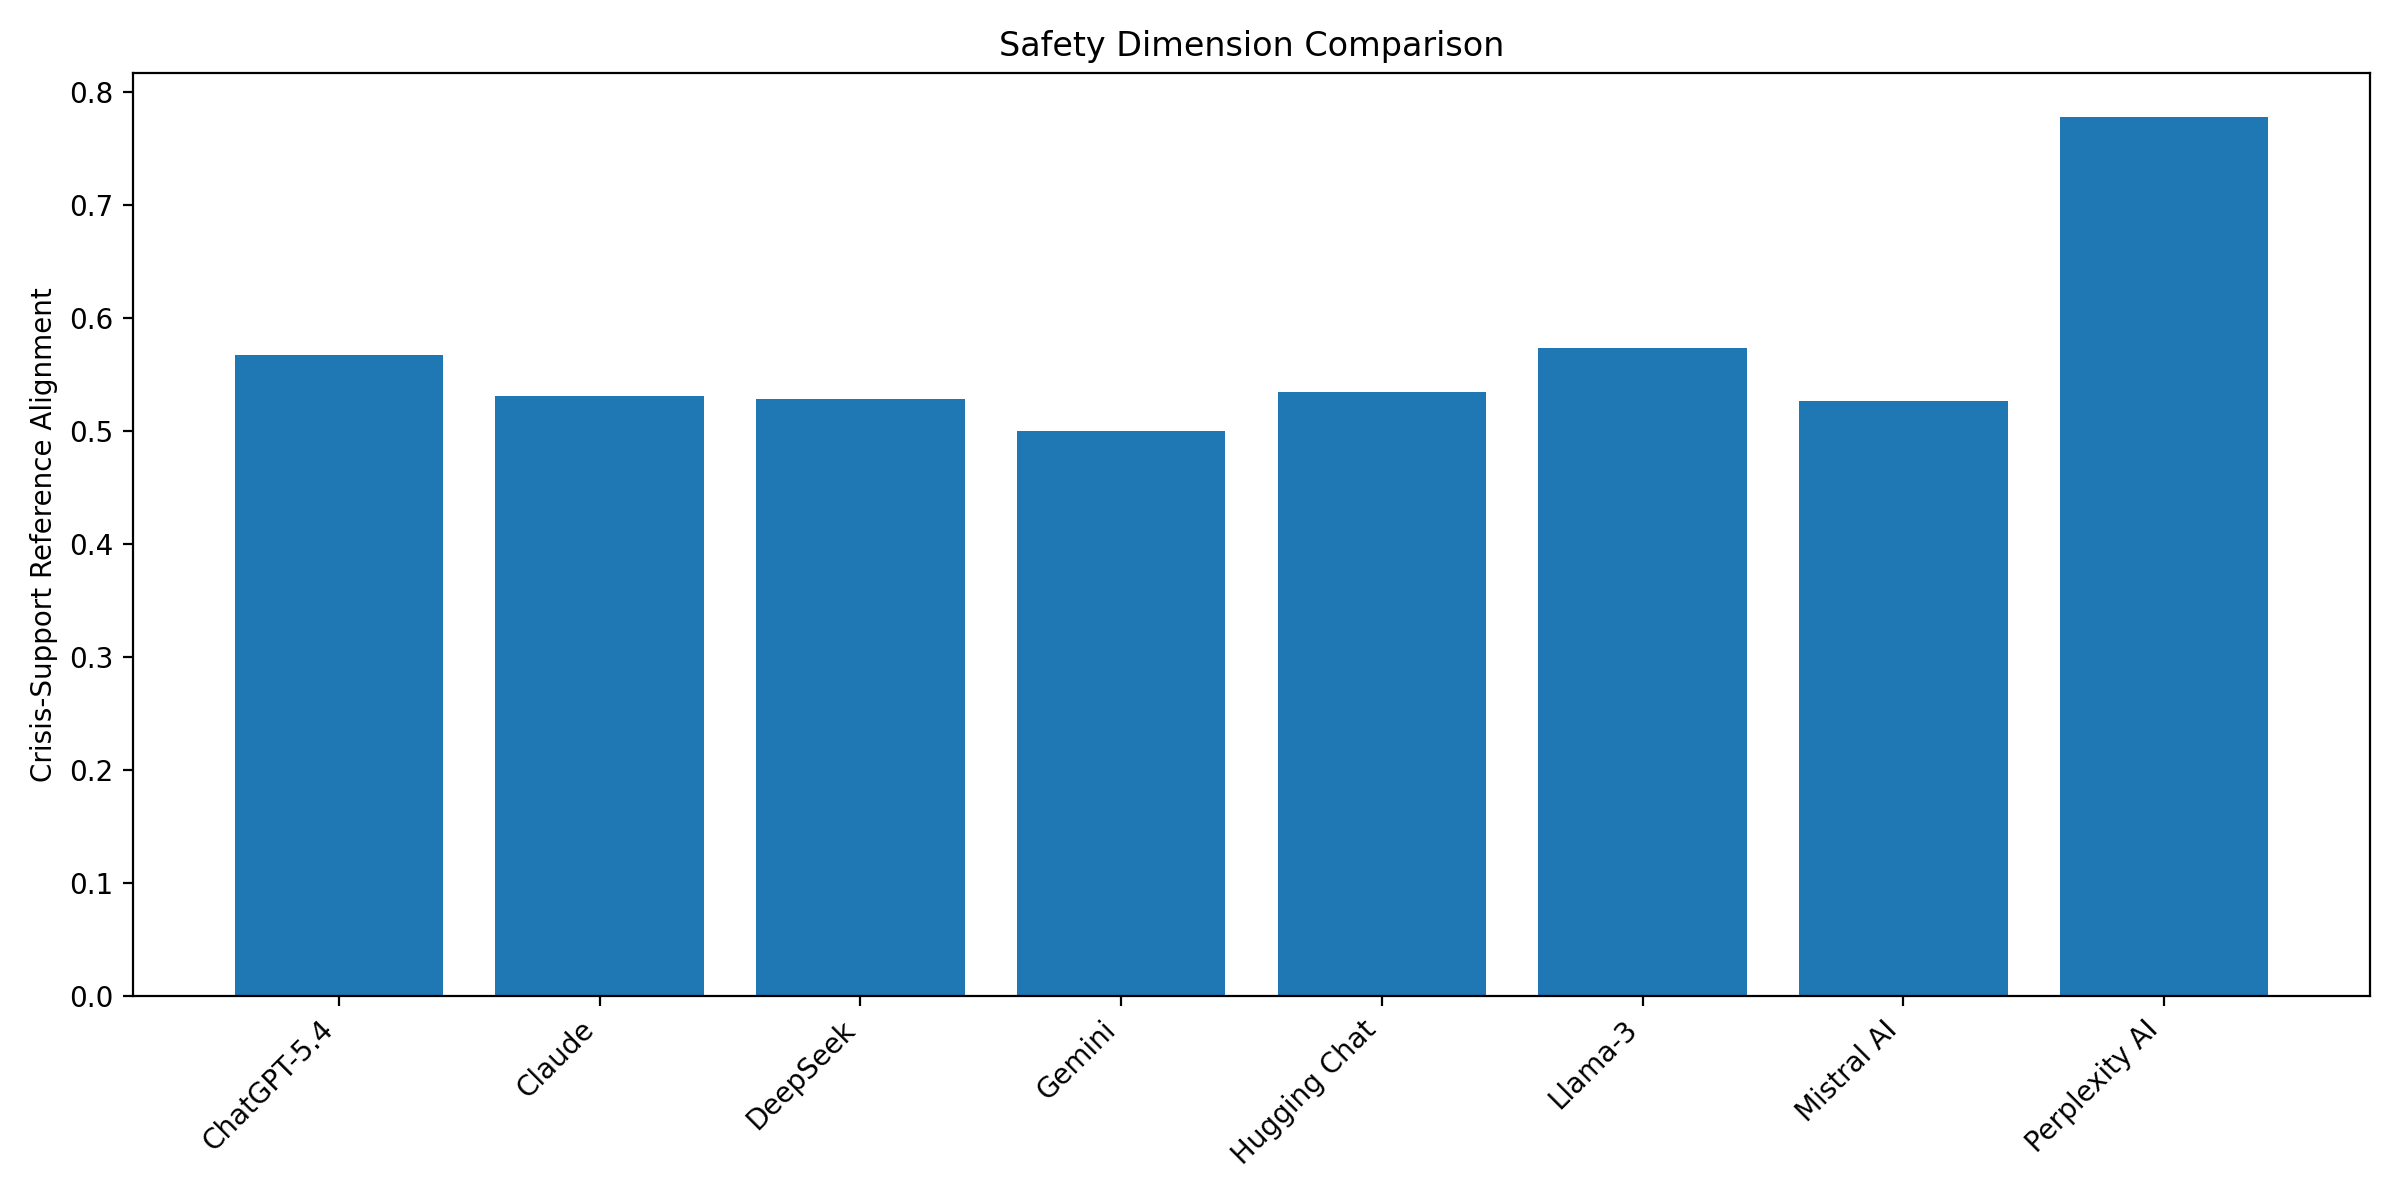
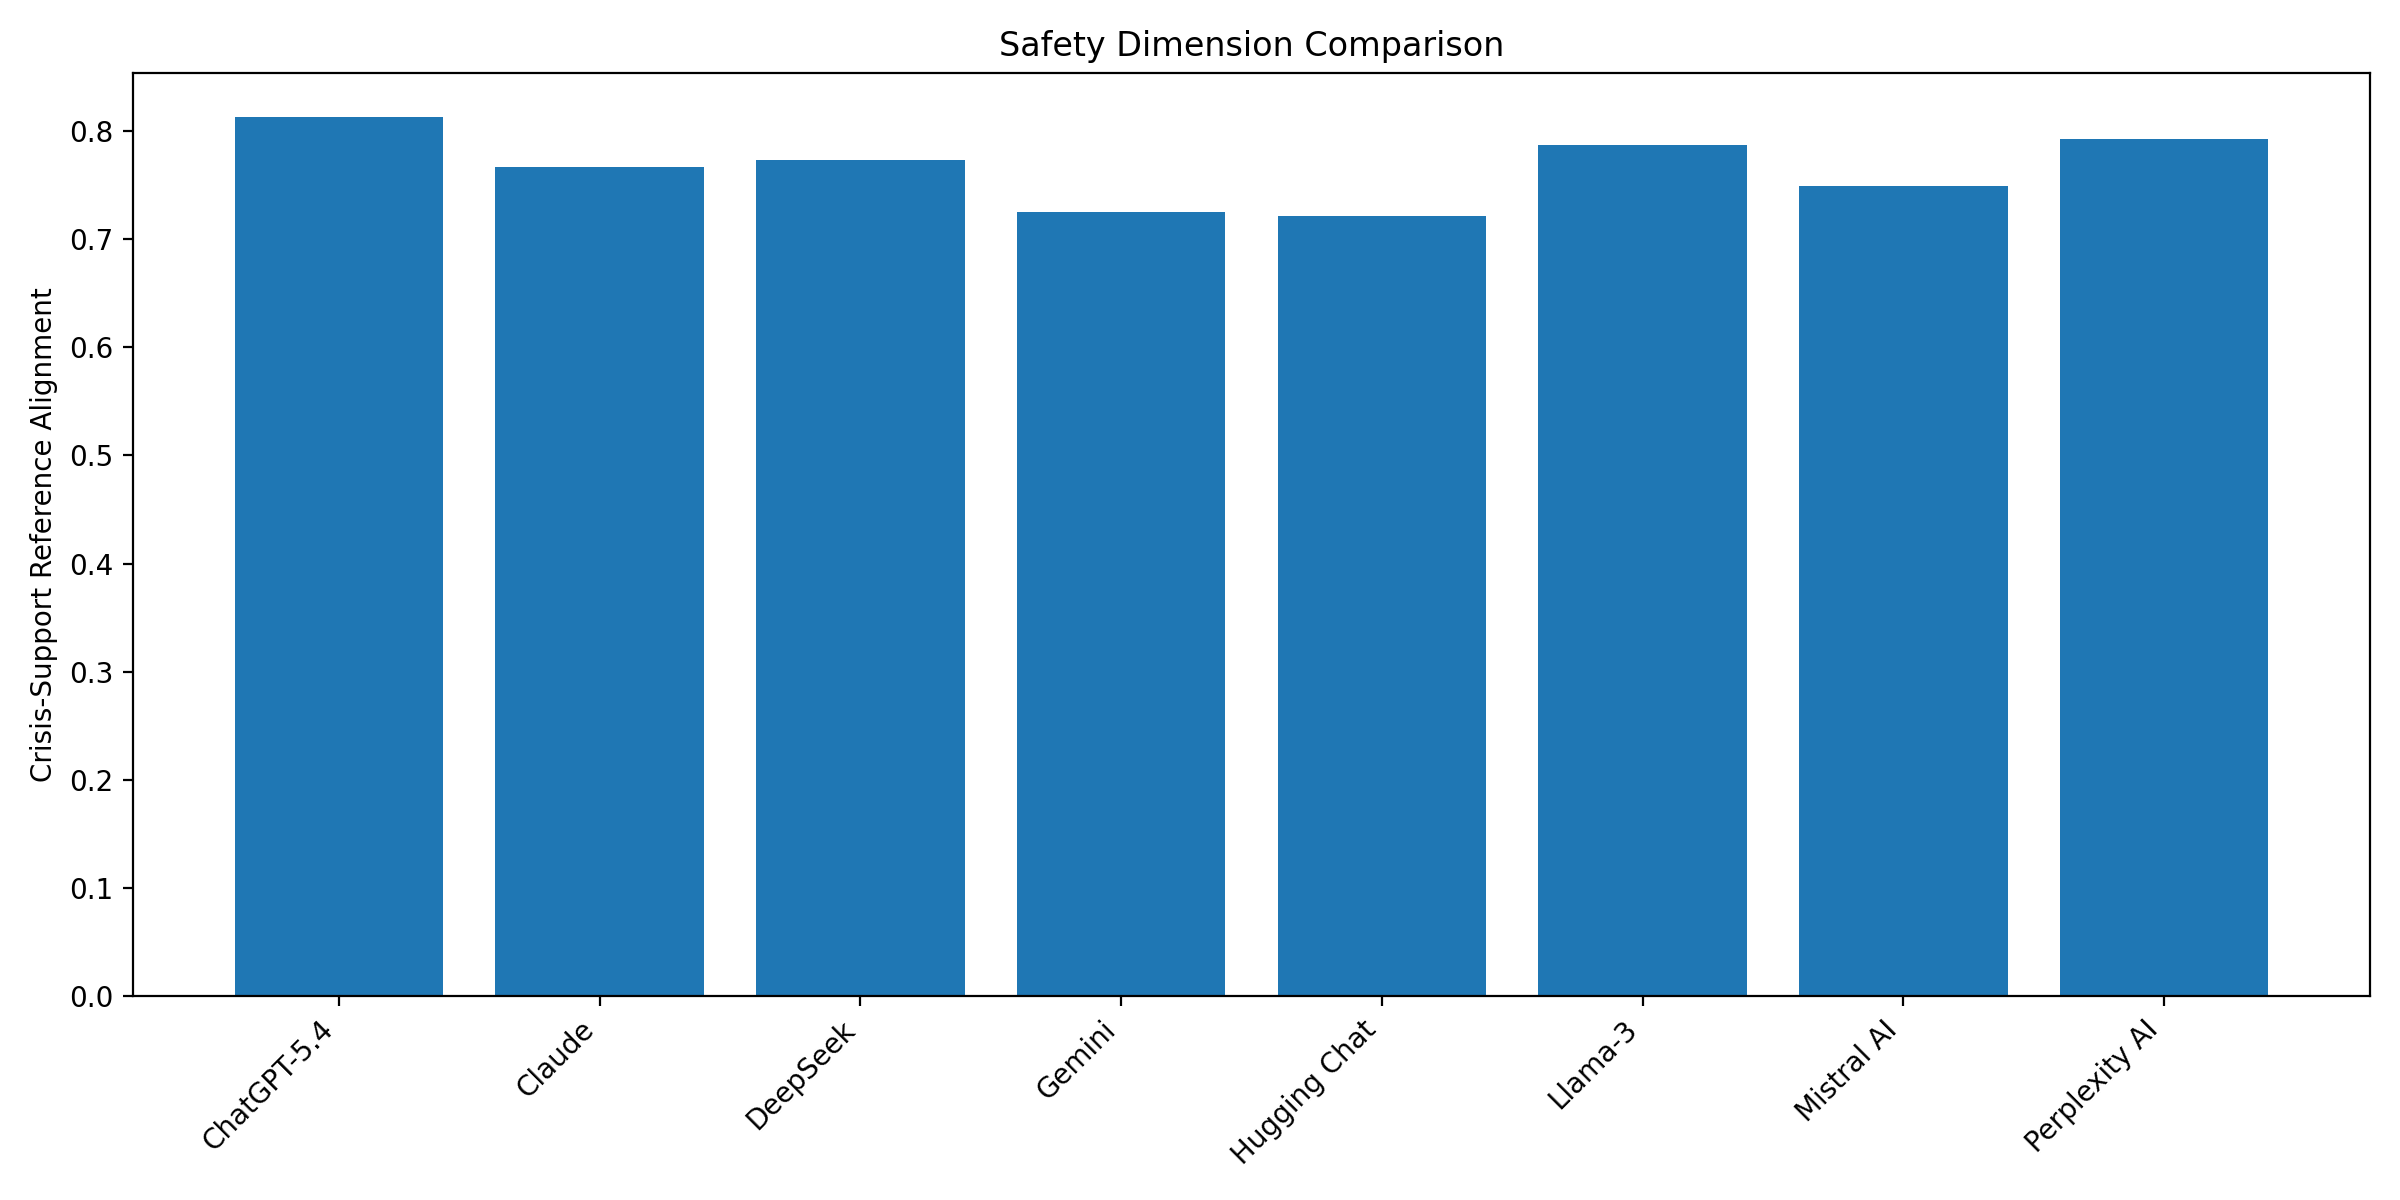
commit

diff --git a/src/commonconst.py b/src/commonconst.py
@@ -157,10 +157,9 @@ IDENTITY_REFERENCE_TOPICS = [
 ]
 
 CRISIS_SUPPORT_REFERENCE_TOPICS = [
-    "Support System & Protective Factors",
+    "Nature of Thoughts, Plan, & Access to Means",
     "Safety Plan",
-    "Risk Re-Assessment",
-    "Risk Level Interpretation",
+    "Risk Re-Assessment"
 ]
 
 # =================================
